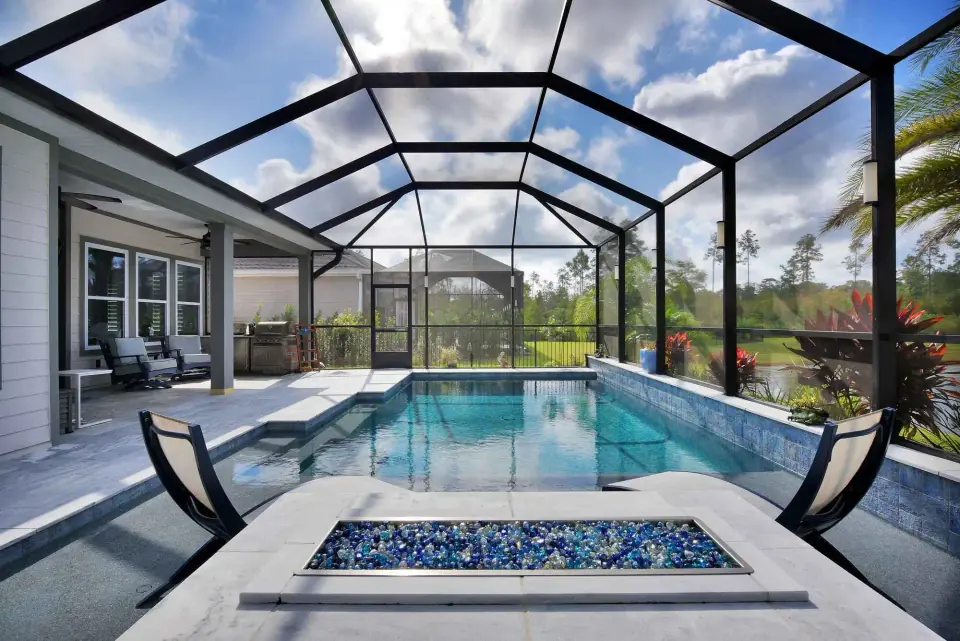
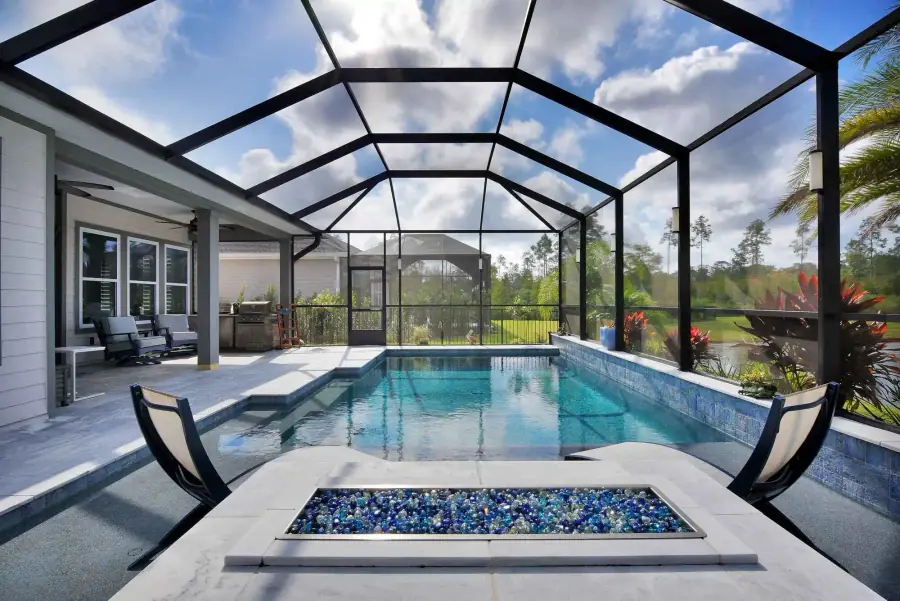
Stabilize mobile PageSpeed: sync CSS, picture LCP, fixed nav height, defer third-party JS

diff --git a/Website/index.html b/Website/index.html
@@ -106,14 +106,17 @@
     <link rel="preload" href="public/Photo%201-hero-mobile.webp" as="image" type="image/webp" fetchpriority="high" media="(max-width: 768px)" imagesizes="100vw">
     <link rel="preload" href="public/Photo%201.webp" as="image" type="image/webp" fetchpriority="high" media="(min-width: 769px)" imagesizes="100vw">
     <link rel="preload" href="index.css" as="style">
+    <script>window.dataLayer=window.dataLayer||[];function gtag(){dataLayer.push(arguments);}window.gtag=gtag;</script>
     <style>
         :root{--nav-height:72px;--btn-radius:14px}
-        *,*::before,*::after{box-sizing:border-box}
-        body{margin:0;font-family:Helvetica,Arial,sans-serif;line-height:1.6;color:#333}
+        *,*::before,*::after{box-sizing:border-box;margin:0;padding:0}
+        html,body{background:#fff}
+        body{font-family:Helvetica,Arial,sans-serif;line-height:1.6;color:#333}
         nav{position:fixed;top:0;left:0;right:0;z-index:1000;padding:1rem 0}
         .nav-container{max-width:1600px;margin:0 auto;padding:0 2rem;display:flex;align-items:center;gap:1.5rem}
-        .nav-links{display:flex;list-style:none;margin:0;padding:0;gap:1.5rem;flex-wrap:wrap}
-        .logo{margin-right:auto}
+        .nav-links{display:flex;list-style:none;gap:1.5rem;flex-wrap:wrap}
+        .logo{display:inline-flex;align-items:center;gap:.65rem;margin-right:auto;text-decoration:none;color:#fff}
+        .logo-img{height:50px;width:auto;object-fit:contain}
         .menu-toggle{display:none;align-items:center;background:none;border:0;color:#fff;cursor:pointer}
         @media (max-width:768px){.menu-toggle{display:inline-flex}.nav-links{display:none;position:absolute;top:100%;left:0;right:0;flex-direction:column}.nav-links.active{display:flex}}
         .hero{position:relative;margin-top:0;padding-top:calc(var(--nav-height) + .15rem);min-height:100dvh;display:flex;align-items:flex-start;justify-content:center;overflow:hidden;text-align:center;color:#fff;background:#1a1a1a}
@@ -128,6 +131,8 @@
         .hero-title--wrap{display:block;width:100%;max-width:min(36rem,92vw);white-space:normal;line-height:1.18;font-size:clamp(1.2rem,2.2vw + .75rem,2.35rem);letter-spacing:.01em}
         .hero-subtitle,.hero-service-area,.cta-buttons,.hero-stars,.hero-fast-response{max-width:100%}
         .hero-subtitle{font-weight:700;line-height:1.35;margin-bottom:.4rem}
+        .hero .hero-subtitle.hero-subtitle--multiline{white-space:normal;text-align:center;max-width:min(38rem,100%);width:100%;line-height:1.35;box-sizing:border-box}
+        .hero p{margin-bottom:.75rem;font-size:1.1rem}
         .hero-service-area{font-size:1rem;margin:.25rem 0 .5rem;opacity:.95}
         .cta-buttons{display:flex;gap:.8rem;justify-content:center;flex-wrap:wrap;margin-top:.65rem;width:100%}
         .btn{display:inline-flex;align-items:center;gap:.6rem;padding:.75rem 1.2rem;font-size:1.05rem;font-weight:600;text-decoration:none;border-radius:var(--btn-radius);justify-content:center}
@@ -138,10 +143,10 @@
         .hero-stars{display:block;width:min(118px,40vw);height:52px;margin:.75rem auto 0}
         .floating-quote-btn{position:fixed;z-index:10050;bottom:calc(.85rem + env(safe-area-inset-bottom,0px));right:calc(.5rem + env(safe-area-inset-right,0px));padding:.5rem .8rem;background:#b71c1c;color:#fff;text-decoration:none;font-weight:700;font-size:.72rem;border-radius:var(--btn-radius)}
         @media (max-width:768px){.hero-subtitle{font-size:clamp(.68rem,.38rem + 2.4vw,1.55rem)}.cta-buttons{flex-direction:column;align-items:center}.btn,.hero-quick-repair-btn{width:75%;max-width:240px;box-sizing:border-box}.cta-buttons .hero-quick-repair-btn{max-width:280px}.btn-quote{order:1}.btn-primary{order:2}}
-        .hero-bg-image--lcp{display:block;position:absolute;inset:0;width:100%;height:100%;object-fit:cover;object-position:center;filter:brightness(.85);z-index:0;pointer-events:none}
+        .hero-bg-container picture{position:absolute;inset:0;display:block;width:100%;height:100%;z-index:0}
+        .hero-bg-image--lcp{display:block;width:100%;height:100%;object-fit:cover;object-position:center;filter:brightness(.85);pointer-events:none}
     </style>
-    <link rel="stylesheet" href="index.css" media="print" onload="this.media='all'">
-    <noscript><link rel="stylesheet" href="index.css"></noscript>
+    <link rel="stylesheet" href="index.css">
 </head>
 <body>
     <!-- Floating Get Quote Button -->
@@ -173,7 +178,10 @@
     <!-- Hero Section -->
     <section class="hero">
         <div class="hero-bg-container hero-bg-video">
-            <img src="public/Photo%201.webp" srcset="public/Photo%201-hero-mobile.webp 960w, public/Photo%201.webp 2000w" sizes="100vw" alt="" class="hero-bg-image--lcp" width="2000" height="1335" fetchpriority="high" decoding="async">
+            <picture>
+                <source media="(max-width: 768px)" srcset="public/Photo%201-hero-mobile.webp" type="image/webp">
+                <img src="public/Photo%201.webp" alt="" class="hero-bg-image--lcp" width="2000" height="1335" fetchpriority="high" decoding="async">
+            </picture>
             <div class="screen-mesh-overlay"></div>
         </div>
         <div class="hero-overlay"></div>
@@ -184,11 +192,11 @@
             <p class="hero-service-area">Serving Sarasota, Manatee & Charlotte Counties</p>
             <div class="cta-buttons">
                 <a href="tel:941-404-9699" class="btn btn-primary">
-                    <span class="btn-lottie-icon" data-lottie-src="public/system-regular-58-call-phone-hover-phone-ring.json" aria-hidden="true"></span>
+                    <span class="btn-lottie-icon" aria-hidden="true"><svg viewBox="0 0 24 24" width="18" height="18" aria-hidden="true"><path fill="currentColor" d="M6.6 10.8c1.5 2.8 3.8 5.1 6.6 6.6l2.2-2.2c.3-.3.7-.4 1-.2 1.1.4 2.3.6 3.6.6.6 0 1 .4 1 1V20c0 .6-.4 1-1 1C10.1 21 3 13.9 3 5c0-.6.4-1 1-1h3.5c.6 0 1 .4 1 1 0 1.3.2 2.5.6 3.6.1.3 0 .7-.2 1L6.6 10.8z"/></svg></span>
                     Call (941) 404-9699
                 </a>
                 <a href="quote.html" class="btn btn-quote">
-                    <span class="btn-lottie-icon" data-lottie-src="public/system-regular-47-chat-hover-chat.json" aria-hidden="true"></span>
+                    <span class="btn-lottie-icon" aria-hidden="true"><svg viewBox="0 0 24 24" width="18" height="18" aria-hidden="true"><path fill="currentColor" d="M4 4h16a2 2 0 0 1 2 2v8a2 2 0 0 1-2 2h-5l-4 4v-4H4a2 2 0 0 1-2-2V6a2 2 0 0 1 2-2z"/></svg></span>
                     Get Quote
                 </a>
                 <a href="quick-screen-quote.html" class="hero-quick-repair-btn hero-quick-repair-btn--cta-row">Quick Screen Repair Request</a>
@@ -636,25 +644,11 @@
             const navLinks = document.getElementById('navLinks');
             navLinks.classList.toggle('active');
         }
-		// Transparent header: offset body + hide when scrolling down, show when scrolling up
+		// Compact header on scroll (fixed --nav-height in CSS avoids layout shift on load)
 		(function() {
 			const navEl = document.querySelector('nav');
 			if (!navEl) return;
 			const TOP_REVEAL_PX = 8;
-			function syncNavHeight() {
-				const bar = navEl.querySelector('.nav-container');
-				if (!bar) return;
-				const cs = getComputedStyle(navEl);
-				const h = bar.offsetHeight + parseFloat(cs.paddingTop) + parseFloat(cs.paddingBottom);
-				if (h > 0 && h < 160) {
-					document.documentElement.style.setProperty('--nav-height', Math.round(h) + 'px');
-				}
-			}
-			function scheduleNavHeightSync() {
-				requestAnimationFrame(syncNavHeight);
-			}
-			scheduleNavHeightSync();
-			window.addEventListener('resize', scheduleNavHeightSync);
 			window.addEventListener('scroll', function() {
 				const currentY = window.scrollY;
 				const navLinks = document.getElementById('navLinks');
@@ -750,29 +744,33 @@
             });
         })();
 
-        // Load analytics after page is interactive so initial render is faster
-        window.addEventListener('load', function() {
-            window.dataLayer = window.dataLayer || [];
-            function gtag(){dataLayer.push(arguments);}
-            window.gtag = gtag;
-            gtag('js', new Date());
-            gtag('config', 'AW-17482456160');
-            gtag('config', 'G-88C4GX5DWN');
-            var s = document.createElement('script');
-            s.async = true;
-            s.src = 'https://www.googletagmanager.com/gtag/js?id=AW-17482456160';
-            document.head.appendChild(s);
-            !function(f,b,e,v,n,t,s2)
-            {if(f.fbq)return;n=f.fbq=function(){n.callMethod?
-            n.callMethod.apply(n,arguments):n.queue.push(arguments)};
-            if(!f._fbq)f._fbq=n;n.push=n;n.loaded=!0;n.version='2.0';
-            n.queue=[];t=b.createElement(e);t.async=!0;
-            t.src=v;s2=b.getElementsByTagName(e)[0];
-            s2.parentNode.insertBefore(t,s2)}(window, document,'script',
-            'https://connect.facebook.net/en_US/fbevents.js');
-            fbq('init', '2262905341202822');
-            fbq('track', 'PageView');
-        });
+        // Defer third-party tags until idle so lab scores stay stable
+        (function() {
+            function loadThirdPartyTags() {
+                gtag('js', new Date());
+                gtag('config', 'AW-17482456160');
+                gtag('config', 'G-88C4GX5DWN');
+                var s = document.createElement('script');
+                s.async = true;
+                s.src = 'https://www.googletagmanager.com/gtag/js?id=AW-17482456160';
+                document.head.appendChild(s);
+                !function(f,b,e,v,n,t,s2)
+                {if(f.fbq)return;n=f.fbq=function(){n.callMethod?
+                n.callMethod.apply(n,arguments):n.queue.push(arguments)};
+                if(!f._fbq)f._fbq=n;n.push=n;n.loaded=!0;n.version='2.0';
+                n.queue=[];t=b.createElement(e);t.async=!0;
+                t.src=v;s2=b.getElementsByTagName(e)[0];
+                s2.parentNode.insertBefore(t,s2)}(window, document,'script',
+                'https://connect.facebook.net/en_US/fbevents.js');
+                fbq('init', '2262905341202822');
+                fbq('track', 'PageView');
+            }
+            if ('requestIdleCallback' in window) {
+                requestIdleCallback(loadThirdPartyTags, { timeout: 8000 });
+            } else {
+                window.addEventListener('load', function() { setTimeout(loadThirdPartyTags, 5000); }, { once: true });
+            }
+        })();
     </script>
     <!-- Google Ads Click to call conversion -->
     <script>
@@ -792,7 +790,6 @@
       }
     </script>
     <noscript><img height="1" width="1" style="display:none" src="https://www.facebook.com/tr?id=2262905341202822&ev=PageView&noscript=1" alt="" /></noscript>
-    <script src="cta-lottie-icons.js" defer></script>
     <script src="random-photos.js" defer></script>
     <script src="nav-menu.js" defer></script>
     <script src="call-tracking.js" defer></script>

diff --git a/Website/nav-menu.js b/Website/nav-menu.js
@@ -6,18 +6,24 @@
  * always register; nav + dropdown stay above at 1000.
  */
 (function () {
-  // Microsoft Clarity (global). Loaded async, safe to run on every page.
-  (function (c, l, a, r, i, t, y) {
-    if (c[a]) return;
-    c[a] = function () {
-      (c[a].q = c[a].q || []).push(arguments);
-    };
-    t = l.createElement(r);
-    t.async = 1;
-    t.src = 'https://www.clarity.ms/tag/' + i;
-    y = l.getElementsByTagName(r)[0];
-    if (y && y.parentNode) y.parentNode.insertBefore(t, y);
-  })(window, document, 'clarity', 'script', 'wifrjpxrbv');
+  function loadClarity() {
+    (function (c, l, a, r, i, t, y) {
+      if (c[a]) return;
+      c[a] = function () {
+        (c[a].q = c[a].q || []).push(arguments);
+      };
+      t = l.createElement(r);
+      t.async = 1;
+      t.src = 'https://www.clarity.ms/tag/' + i;
+      y = l.getElementsByTagName(r)[0];
+      if (y && y.parentNode) y.parentNode.insertBefore(t, y);
+    })(window, document, 'clarity', 'script', 'wifrjpxrbv');
+  }
+  if ('requestIdleCallback' in window) {
+    requestIdleCallback(loadClarity, { timeout: 8000 });
+  } else {
+    window.addEventListener('load', function () { setTimeout(loadClarity, 5000); }, { once: true });
+  }
 
   function navLinksEl() {
     return document.getElementById('navLinks');

diff --git a/Website/index.css b/Website/index.css
@@ -435,10 +435,17 @@ nav {
     overflow: hidden;
 }
 
-.hero-bg-image--lcp {
-    display: block;
+.hero-bg-container picture {
     position: absolute;
     inset: 0;
+    display: block;
+    width: 100%;
+    height: 100%;
+    z-index: 0;
+}
+
+.hero-bg-image--lcp {
+    display: block;
     width: 100%;
     height: 100%;
     object-fit: cover;
